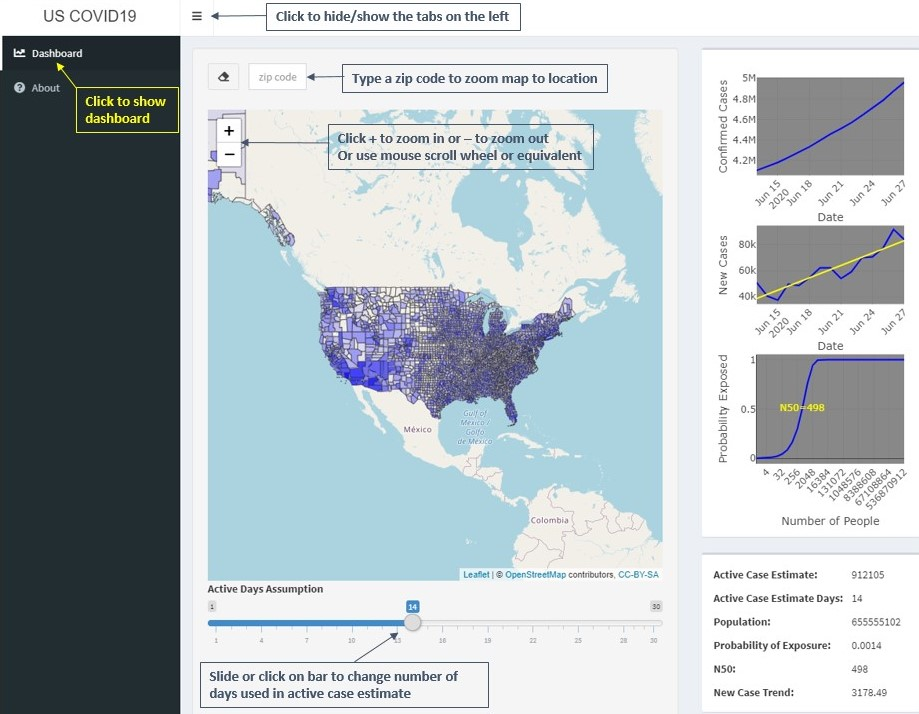
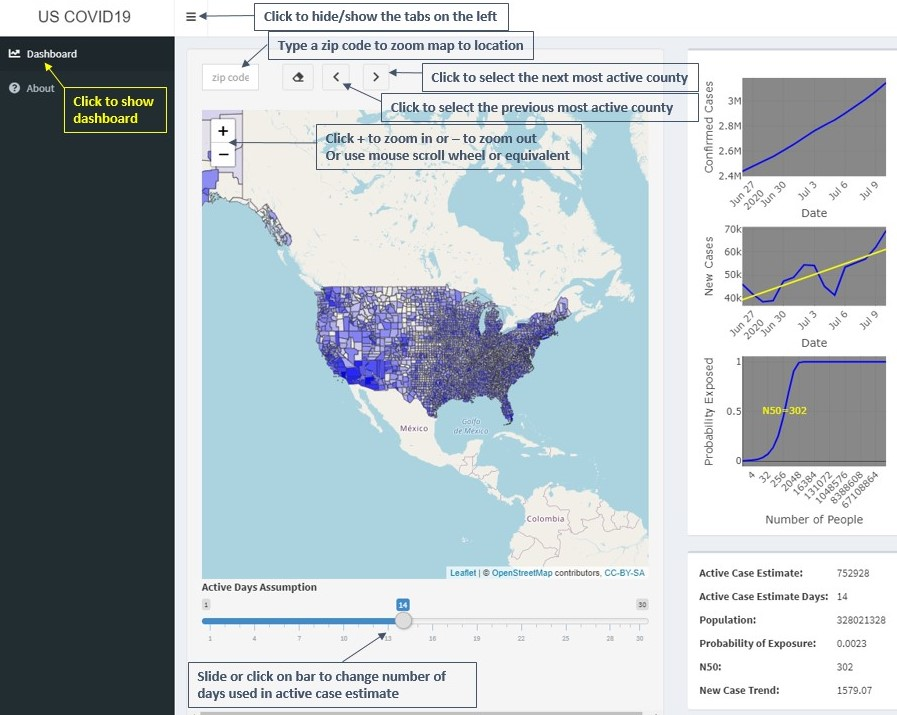
Added navigation by active cases

diff --git a/www/covid.js b/www/covid.js
@@ -1,8 +1,16 @@
 initqstr = window.location.search;
 
 $(document).on("shiny:sessioninitialized", function(event) {
-  params = new URLSearchParams(initqstr);
+  var params = new URLSearchParams(initqstr);
   params.forEach(function(value, key) {
     Shiny.setInputValue(`q${key}`, value);
-  })
-})
+  });
+});
+
+function toggleVisibility(id) {
+  var el = $(`#${id}`);
+  if(el != null) {
+    el.toggle();
+  }
+}
+Shiny.addCustomMessageHandler("toggleVisibility", toggleVisibility);
